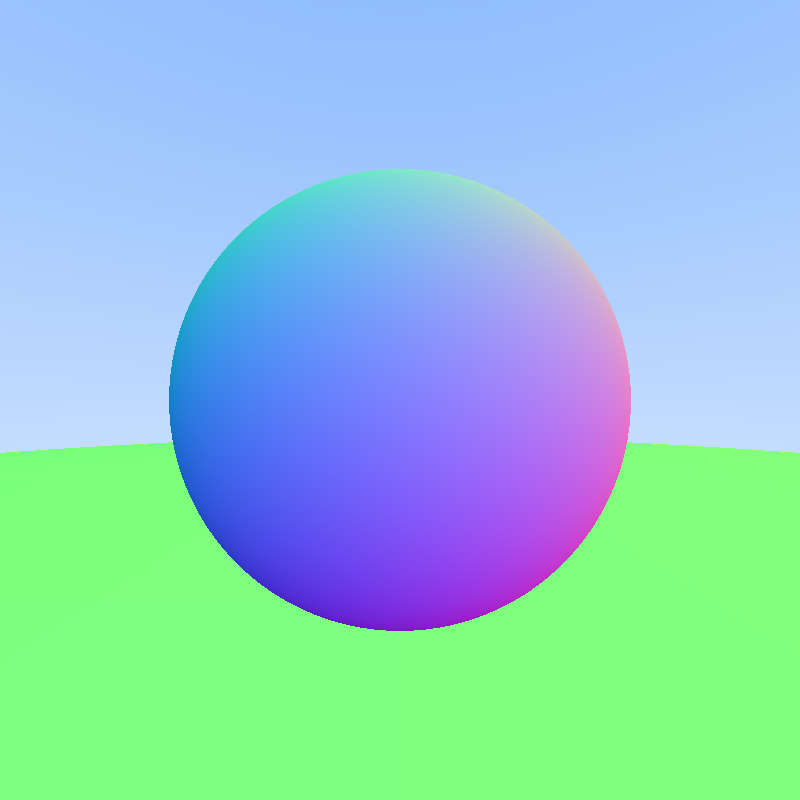
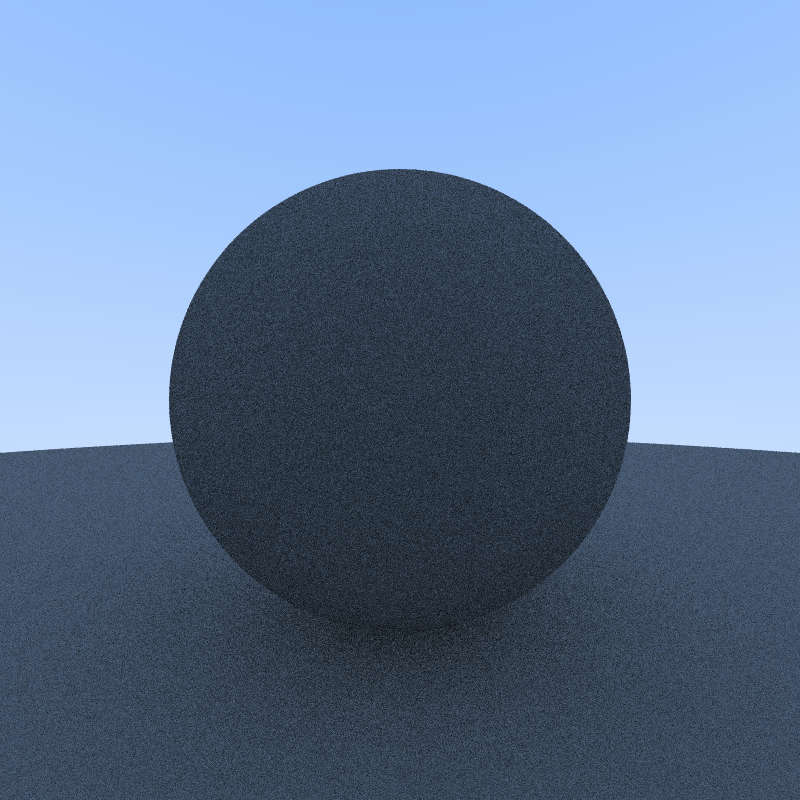
diffuse version1

diff --git a/RayTracer/src/camera.rs b/RayTracer/src/camera.rs
@@ -15,22 +15,36 @@ pub struct Camera {
     pub pixel_delta_u: Vec3,
     pub pixel_delta_v: Vec3,
     pub pixel00_loc: Vec3,
-
+    pub samples_per_pixel: usize,
+    pub pixel_samples_scale: f64,
 }
 
 impl Camera {
     pub fn new() -> Self {
         Self {
-            aspect_ratio: 0.0,
-            width: 0,
-            height: 0,
+            aspect_ratio: 1.0,
+            width: 100,
+            height: 100,
+            samples_per_pixel: 10,
+            pixel_samples_scale: 0.1,
             camera_center: Vec3::zero(),
             pixel_delta_u: Vec3::zero(),
             pixel_delta_v: Vec3::zero(),
             pixel00_loc: Vec3::zero(),
         }
     }
-    pub fn ray_color(&self, r: &Ray, world: &dyn Hittable) -> [u8; 3] {
+    pub fn sample_square(&self) -> Vec3 {
+        // return vec3::Vec3::new(random_double()-0.5, random_double()-0.5, 0.0);
+        return Vec3::new(rand::random::<f64>()-0.5, rand::random::<f64>()-0.5, 0.0);
+    }
+    pub fn get_ray(&self, i: usize, j: usize) -> Ray {
+        let mut offset = self.sample_square();
+        let mut pixel_sample = self.pixel00_loc + self.pixel_delta_u * (i as f64 + offset.x) + self.pixel_delta_v * (j as f64 + offset.y);
+        let ray_origin = self.camera_center;
+        let ray_direction = pixel_sample - self.camera_center;
+        return Ray::new(ray_origin, ray_direction);
+    }
+    pub fn ray_color(&self, r: &Ray, world: &dyn Hittable) -> [f64; 3] {
         let mut rec = hit_record {
             p: Vec3::zero(),
             normal: Vec3::zero(),
@@ -38,13 +52,33 @@ impl Camera {
             front_face: false,
         };
         if world.hit(r, Interval::new(0.0, f64::INFINITY), &mut rec) {
-            return [((rec.normal.x + 1.0) * 0.5 * 255.999) as u8, ((rec.normal.y + 1.0) * 0.5 * 255.999) as u8, ((rec.normal.z + 1.0) * 0.5 * 255.999) as u8];
+            return [0.5*(rec.normal.x + 1.0), 0.5*(rec.normal.y + 1.0), 0.5*(rec.normal.z + 1.0)];
         }
         let unit_direction = r.direction().normalize();
         let a = 0.5 * (unit_direction.y + 1.0);
         let color = Vec3::new(1.0, 1.0, 1.0) * (1.0 - a) + Vec3::new(0.5, 0.7, 1.0) * a;
-        return [(color.x * 255.999) as u8, (color.y * 255.999) as u8, (color.z * 255.999) as u8];
+        return [color.x, color.y, color.z];
     }
+    pub fn ray_color_diffuse(&self, r: &Ray, world: &dyn Hittable) -> [f64; 3] {
+        let mut rec = hit_record {
+            p: Vec3::zero(),
+            normal: Vec3::zero(),
+            t: 0.0,
+            front_face: false,
+        };
+        if world.hit(r, Interval::new(0.0, f64::INFINITY), &mut rec) {
+            let direction = Vec3::random_on_hemisphere(rec.normal);
+            // return self.ray_color_diffuse(&Ray::new(rec.p, direction), world) * 0.5 as f64;
+            let tmp = self.ray_color_diffuse(&Ray::new(rec.p, direction), world);
+            return [tmp[0] * 0.5, tmp[1] * 0.5, tmp[2] * 0.5];
+            // return [0.5*(rec.normal.x + 1.0), 0.5*(rec.normal.y + 1.0), 0.5*(rec.normal.z + 1.0)];
+        }
+        let unit_direction = r.direction().normalize();
+        let a = 0.5 * (unit_direction.y + 1.0);
+        let color = Vec3::new(1.0, 1.0, 1.0) * (1.0 - a) + Vec3::new(0.5, 0.7, 1.0) * a;
+        return [color.x, color.y, color.z];
+    }
+
     pub fn initialize(&mut self) -> RgbImage {
         // width = 800;
         self.width = 800;
@@ -56,7 +90,8 @@ impl Camera {
         // } else {
         //     ProgressBar::new((height * width) as u64)
         // };
-
+        self.samples_per_pixel = 10;
+        self.pixel_samples_scale = 1.0 / self.samples_per_pixel as f64;
         let mut img: RgbImage = ImageBuffer::new(self.width as u32, self.height as u32);
         // aspect_ratio = width as f64 / height as f64;
         self.aspect_ratio = self.width as f64 / self.height as f64;
@@ -87,11 +122,14 @@ impl Camera {
 
         for j in 0..self.height {
             for i in 0..self.width {
-                let pixel_center = self.pixel00_loc + self.pixel_delta_u * i as f64 + self.pixel_delta_v * j as f64;
-                let ray_dir = pixel_center - self.camera_center;
-                let ray = Ray::new(self.camera_center, ray_dir);
-                let pixel_color = self.ray_color(&ray, world);
-                write_color(pixel_color, &mut img, i as usize, j as usize);
+                let mut pixel_color = Vec3::zero();
+                for sample in 0..self.samples_per_pixel {
+                    let r = self.get_ray(i, j);
+                    // pixel_color += Vec3::from(self.ray_color(&r, world));
+                    pixel_color += Vec3::from(self.ray_color_diffuse(&r, world));
+                }
+                // self.write_color(pixel_color, &mut img, i as usize, j as usize);    
+                write_color(pixel_color * self.pixel_samples_scale, &mut img, i as usize, j as usize);
                 // bar.inc(1);
             }
         }

diff --git a/RayTracer/src/color.rs b/RayTracer/src/color.rs
@@ -1,7 +1,23 @@
 use image::RgbImage;
+use crate::interval::Interval;
+use crate::vec3::Vec3;
+
 /// the multi-sample write_color() function
-pub fn write_color(pixel_color: [u8; 3], img: &mut RgbImage, i: usize, j: usize) {
-    let pixel = img.get_pixel_mut(i.try_into().unwrap(), j.try_into().unwrap());
-    *pixel = image::Rgb(pixel_color);
+pub fn write_color(pixel_color: Vec3, img: &mut RgbImage, i: usize, j: usize) {
+    // let pixel = img.get_pixel_mut(i.try_into().unwrap(), j.try_into().unwrap());
+    // *pixel = image::Rgb(pixel_color);
+
     // Write the translated [0,255] value of each color component.
+
+    let intensity = Interval::new(0.0, 0.999);
+    let r = (256.0 * intensity.clamp(pixel_color.x)).floor() as u8;
+    let g = (256.0 * intensity.clamp(pixel_color.y)).floor() as u8;
+    let b = (256.0 * intensity.clamp(pixel_color.z)).floor() as u8;
+    // let r = (256.0 * intensity.clamp(pixel_color[0] as f64)).floor() as u8;
+    // let g = (256.0 * intensity.clamp(pixel_color[1] as f64)).floor() as u8;
+    // let b = (256.0 * intensity.clamp(pixel_color[2] as f64)).floor() as u8;
+
+    let pixel = img.get_pixel_mut(i.try_into().unwrap(), j.try_into().unwrap());
+    *pixel = image::Rgb([r, g, b]);
+
 }

diff --git a/RayTracer/src/vec3.rs b/RayTracer/src/vec3.rs
@@ -18,6 +18,34 @@ impl Vec3 {
         self.x * other.x + self.y * other.y + self.z * other.z
     }
 
+    pub fn from(other: [f64; 3]) -> Self {
+        Self::new(other[0], other[1], other[2])
+    }
+    pub fn random() -> Self {
+        Self::new(rand::random::<f64>(), rand::random::<f64>(), rand::random::<f64>())
+    }
+    pub fn random_with_range(min: f64, max: f64) -> Self {
+        Self::new(rand::random::<f64>()*(max-min)+min, rand::random::<f64>()*(max-min)+min, rand::random::<f64>()*(max-min)+min)
+    }
+    pub fn random_in_unit_sphere() -> Self {
+        loop {
+            let p = Self::random_with_range(-1.0, 1.0);
+            if p.squared_length() < 1.0 {
+                return p;
+            }
+        }
+    }
+    pub fn random_unit_vector() -> Self {
+        Self::random_in_unit_sphere().normalize()
+    }
+    pub fn random_on_hemisphere(normal: Self) -> Self {
+        let on_unit_sphere = Self::random_unit_vector();
+        if on_unit_sphere.dot(normal) > 0.0 {
+            return on_unit_sphere;
+        } else {
+            return on_unit_sphere * -1.0 as f64;
+        }
+    }
     pub fn ones() -> Self {
         Self::new(1.0, 1.0, 1.0)
     }

diff --git a/RayTracer/src/raytracer.rs b/RayTracer/src/raytracer.rs
@@ -1,7 +1,18 @@
+use rand;
 
 pub const infinity: f64 = f64::INFINITY;
 pub const pi: f64 = 3.1415926535897932385;
 
 pub fn degrees_to_radians(degrees: f64) -> f64 {
     degrees * pi / 180.0
+}
+
+pub fn random_double() -> f64 {
+    // Returns a random real in [0,1).
+    rand::random::<f64>()
+}
+
+pub fn random_double_range(min: f64, max: f64) -> f64 {
+    // Returns a random real in [min,max).
+    min + (max - min) * random_double()
 }

diff --git a/RayTracer/src/interval.rs b/RayTracer/src/interval.rs
@@ -17,4 +17,13 @@ impl Interval {
     pub fn surrounds(&self, t: f64) -> bool {
         t > self.min && t < self.max
     }
+    pub fn clamp(&self, x:f64) -> f64 {
+        if x < self.min {
+            self.min
+        } else if x > self.max {
+            self.max
+        } else {
+            x
+        }
+    }
 }

diff --git a/RayTracer/src/main.rs b/RayTracer/src/main.rs
@@ -41,6 +41,7 @@ fn main() {
     // cam.aspect_ratio
     cam.width = 800;
     cam.height = 800;
+    cam.samples_per_pixel = 10;
     cam.aspect_ratio = cam.width as f64 / cam.height as f64;
 
     cam.render(&world);
